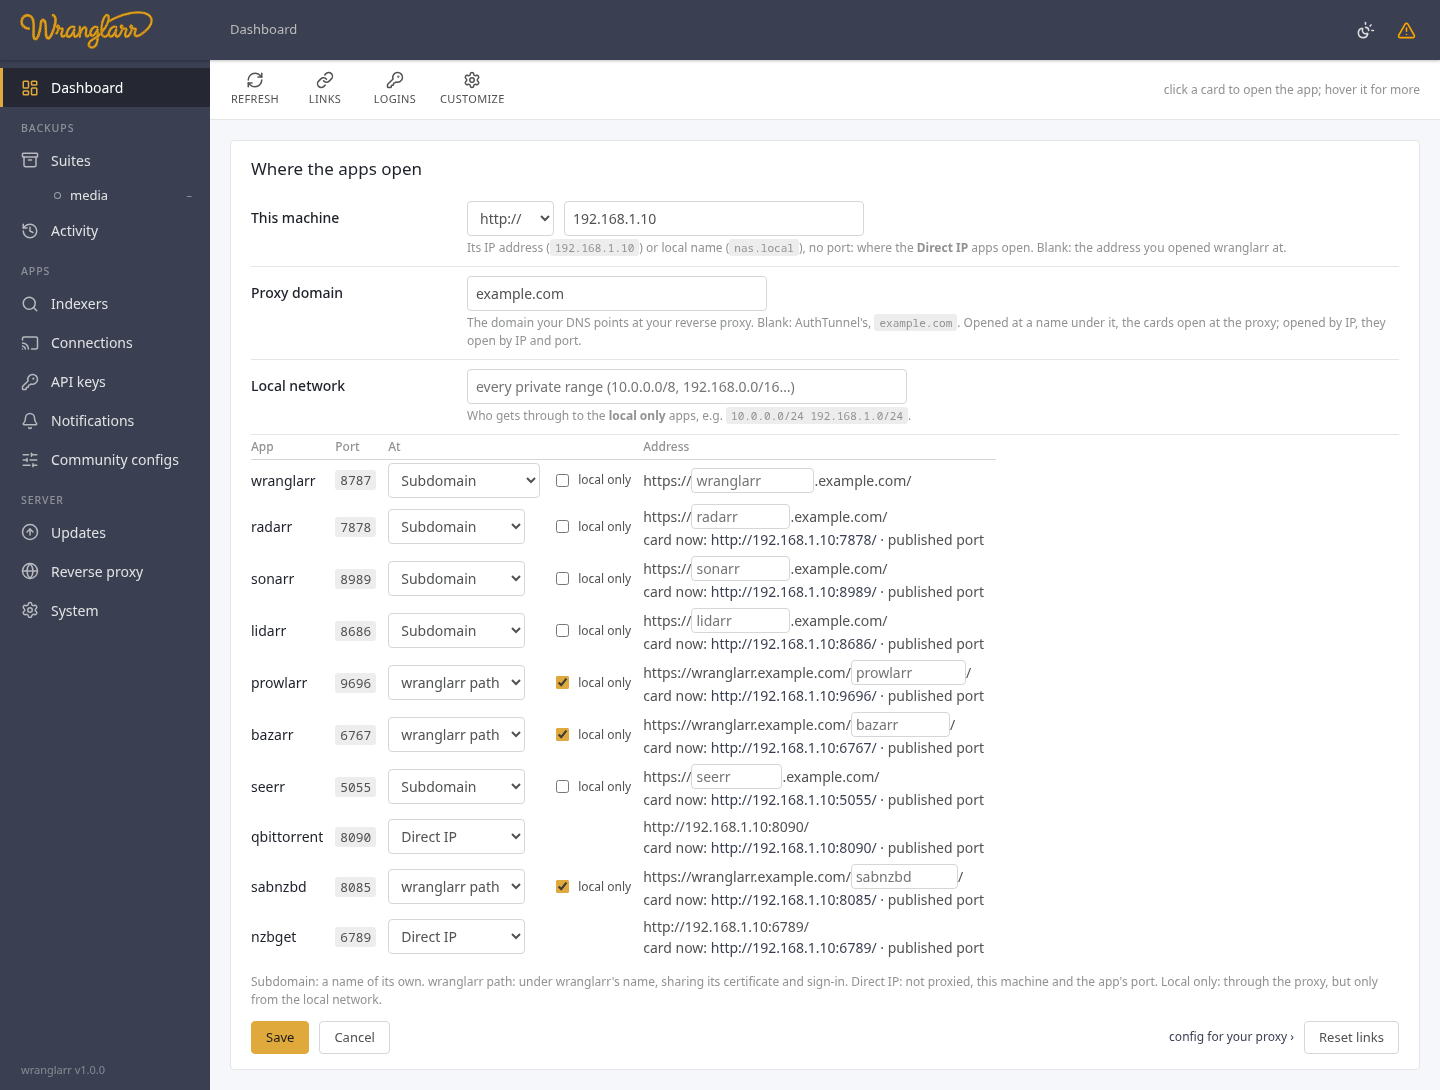
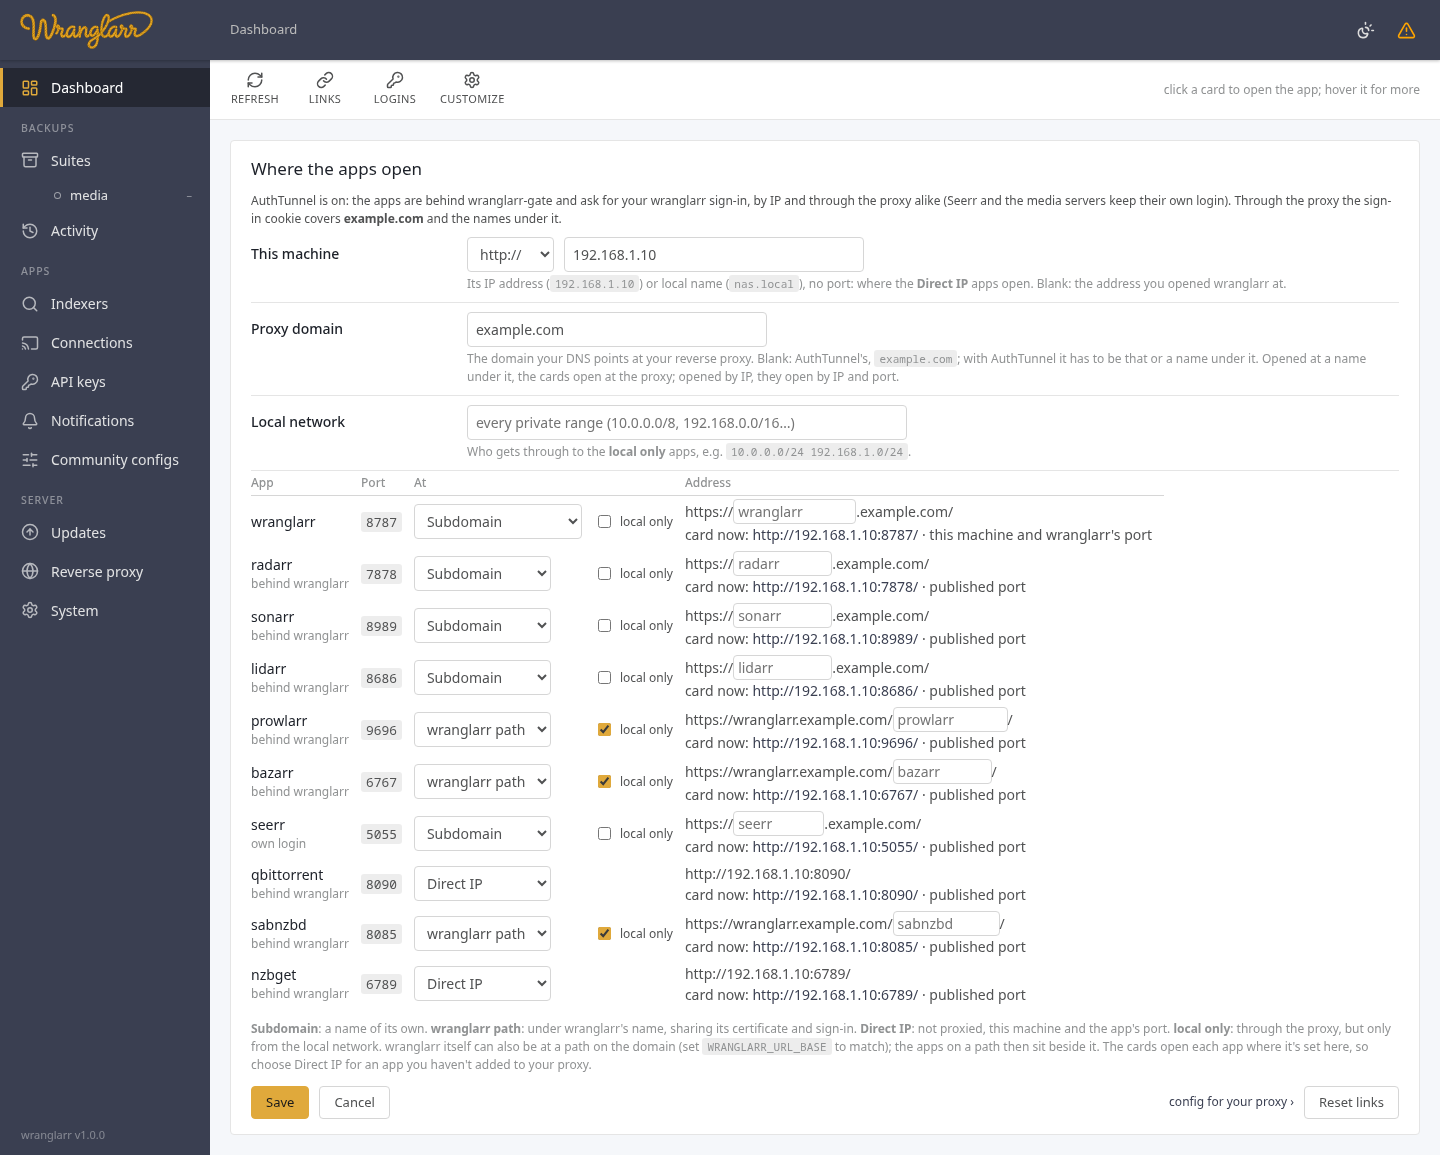
Links: tidy the legend; re-shoot the Links and Reverse proxy screenshots
The legend names each place in the panel's own words and lowercases wranglarr. The screenshots show the panel and the page as they are now, with AUTH_LOGIN_URL set so no setup warning shows.

diff --git a/wranglarr/templates/home.html b/wranglarr/templates/home.html
@@ -54,7 +54,7 @@
       <thead><tr><th>App</th><th>Port</th><th>At</th><th></th><th>Address</th></tr></thead>
       <tbody id="links-rows"></tbody>
     </table>
-    <p class="muted small">Wranglarr can also use a path on the domain (set the matching WRANGLARR_URL_BASE). App paths are siblings on the same host. Subdomain: a name of its own. wranglarr path: under wranglarr's name, sharing its certificate and sign-in. Direct IP: not proxied, this machine and the app's port. Local only: through the proxy, but only from the local network. Choose Direct IP for apps you haven't added to the proxy; DNS and availability never change these choices.</p>
+    <p class="muted small"><b>Subdomain</b>: a name of its own. <b>wranglarr path</b>: under wranglarr's name, sharing its certificate and sign-in. <b>Direct IP</b>: not proxied, this machine and the app's port. <b>local only</b>: through the proxy, but only from the local network. wranglarr itself can also be at a path on the domain (set <code>WRANGLARR_URL_BASE</code> to match); the apps on a path then sit beside it. The cards open each app where it's set here, so choose Direct IP for an app you haven't added to your proxy.</p>
     <div class="row" style="margin-top:12px">
       <button class="btn primary" type="submit">Save</button>
       <button class="btn ghost" type="button" data-links-cancel>Cancel</button>
